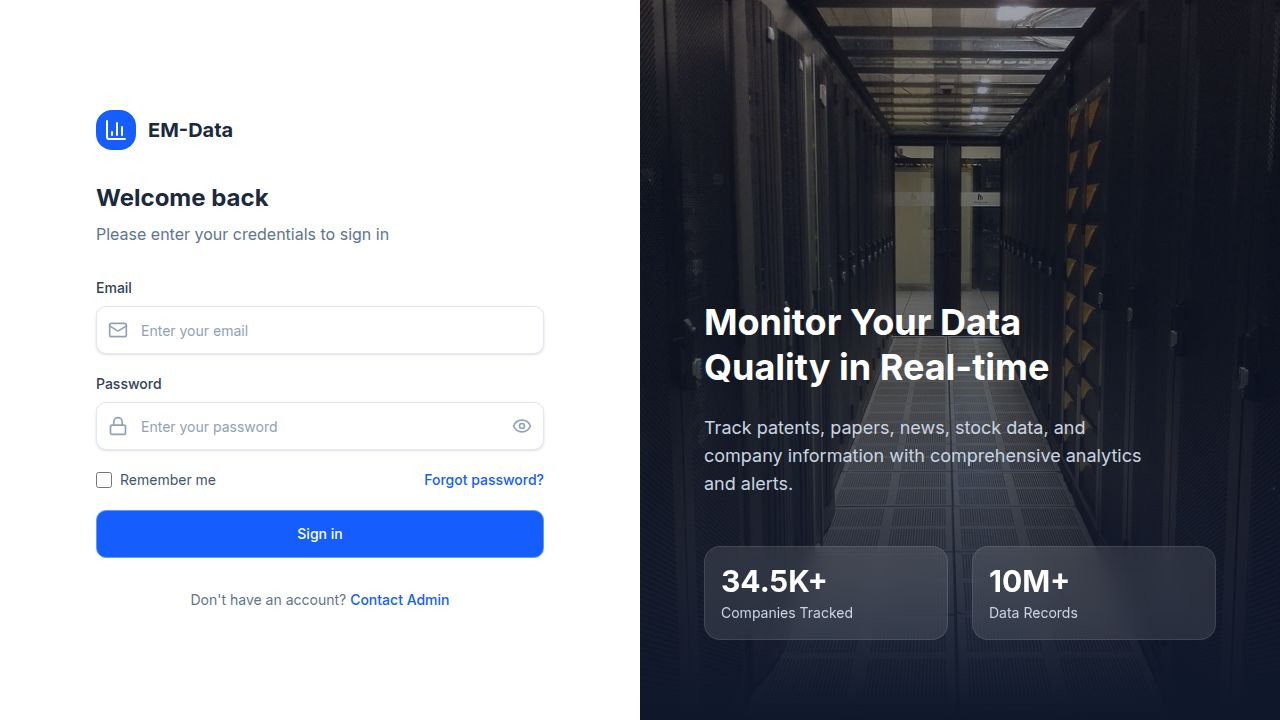
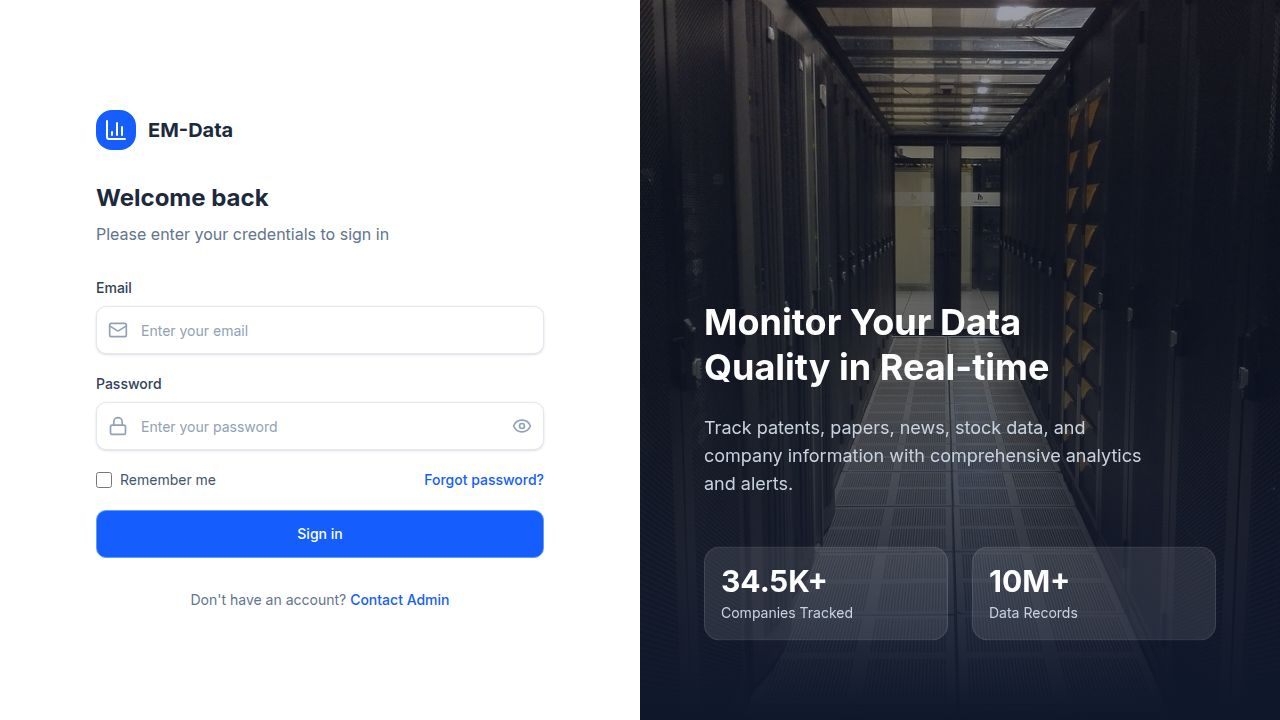
Update test item history to show only change type and results
Refactor TestDetail.tsx to remove detailed change history and display only action type, actor, date, and summary results for test item history.

Replit-Commit-Author: Agent
Replit-Commit-Session-Id: d2bd115d-fa95-4ba1-9fe1-994fda3d6723
Replit-Commit-Checkpoint-Type: full_checkpoint
Replit-Commit-Event-Id: 71c5cad7-1ea1-4dfe-9587-a508a47e2f06
Replit-Commit-Screenshot-Url: https://storage.googleapis.com/screenshot-production-us-central1/8e96d2a4-76c1-459b-b578-cf86d63140d3/d2bd115d-fa95-4ba1-9fe1-994fda3d6723/lMV1Tb4
Replit-Helium-Checkpoint-Created: true

diff --git a/client/src/pages/TestDetail.tsx b/client/src/pages/TestDetail.tsx
@@ -368,29 +368,38 @@ export default function TestDetail() {
     { 
       id: 1, 
       title: "QA 테스트 항목", 
-      action: "Replaced", 
+      action: "수정", 
       date: "2026-04-03 16:57", 
       actor: "Actor #2", 
-      role: "Member #2",
-      itemCount: 3,
-      changes: [
-        { id: 1, type: "ox", question: "회원가입 폼이 정상 표시되나요?", from: "O", to: "X", toStatus: "abnormal" },
-        { id: 2, type: "text", question: "발견된 문제를 입력해주세요.", from: "버튼이 안눌림", to: "가입하기 버튼 클릭 시 500 에러 발생함", toStatus: "normal" },
-        { id: 3, type: "multiple_choice", question: "테스트한 브라우저를 선택해주세요.", options: ["Chrome", "Firefox", "Safari", "Edge"], from: "미선택", to: "Chrome", toStatus: "normal" }
-      ]
+      results: {
+        normal: 12,
+        abnormal: 3,
+        resolved: 1
+      }
     },
     { 
       id: 2, 
       title: "QA 테스트 항목", 
-      action: "Updated", 
+      action: "시작", 
       date: "2026-04-03 14:20", 
       actor: "Actor #1", 
-      role: "Member #1",
-      itemCount: 2,
-      changes: [
-        { id: 1, type: "multiple_choice", question: "테스트 환경을 선택해주세요.", options: ["Local", "Dev", "Staging", "Prod"], from: "Dev", to: "Staging", fromStatus: "normal", toStatus: "abnormal" },
-        { id: 2, type: "ox", question: "API 응답이 200 OK 인가요?", from: "미선택", to: "O", toStatus: "normal" },
-      ]
+      results: {
+        normal: 0,
+        abnormal: 0,
+        resolved: 0
+      }
+    },
+    { 
+      id: 3, 
+      title: "QA 테스트 항목", 
+      action: "종료(등록)", 
+      date: "2026-04-04 10:15", 
+      actor: "Actor #3", 
+      results: {
+        normal: 15,
+        abnormal: 0,
+        resolved: 4
+      }
     }
   ];
   // Mock history data for schedule changes
@@ -1912,19 +1921,40 @@ export default function TestDetail() {
                     {itemHistory.map((historyGroup) => (
                       <div key={historyGroup.id} className="bg-white rounded-xl border border-slate-200 overflow-hidden shadow-sm">
                         {/* History Group Header */}
-                        <div className="p-5 border-b border-slate-100 flex items-start justify-between">
-                          <div className="flex items-start gap-4">
-                            <div className="w-10 h-10 rounded-full bg-blue-50 flex items-center justify-center flex-shrink-0 mt-1">
-                              <CheckCircle className="w-5 h-5 text-blue-500" />
+                        <div className="p-5 flex items-center justify-between">
+                          <div className="flex items-center gap-4">
+                            <div className={`w-10 h-10 rounded-full flex items-center justify-center flex-shrink-0 ${
+                              historyGroup.action === '시작' ? 'bg-blue-50 text-blue-500' :
+                              historyGroup.action === '종료(등록)' ? 'bg-emerald-50 text-emerald-500' :
+                              'bg-purple-50 text-purple-500'
+                            }`}>
+                              <CheckCircle className="w-5 h-5" />
                             </div>
                             <div>
                               <div className="flex items-center gap-3">
                                 <h4 className="text-base font-semibold text-slate-800">{historyGroup.title}</h4>
-                                <span className="px-2.5 py-0.5 rounded-full bg-blue-100 text-blue-700 text-xs font-medium">
+                                <span className={`px-2.5 py-0.5 rounded-full text-xs font-medium ${
+                                  historyGroup.action === '시작' ? 'bg-blue-100 text-blue-700' :
+                                  historyGroup.action === '종료(등록)' ? 'bg-emerald-100 text-emerald-700' :
+                                  'bg-purple-100 text-purple-700'
+                                }`}>
                                   {historyGroup.action}
                                 </span>
                               </div>
-                              <p className="text-sm text-slate-500 mt-1">{historyGroup.itemCount} item(s) snapshot</p>
+                              <div className="flex items-center gap-4 mt-2">
+                                <div className="flex items-center gap-1.5 text-sm text-emerald-600 bg-emerald-50 px-2 py-0.5 rounded-md border border-emerald-100">
+                                  <span className="font-medium">정상</span>
+                                  <span className="font-bold">{historyGroup.results.normal}건</span>
+                                </div>
+                                <div className="flex items-center gap-1.5 text-sm text-red-600 bg-red-50 px-2 py-0.5 rounded-md border border-red-100">
+                                  <span className="font-medium">비정상</span>
+                                  <span className="font-bold">{historyGroup.results.abnormal}건</span>
+                                </div>
+                                <div className="flex items-center gap-1.5 text-sm text-blue-600 bg-blue-50 px-2 py-0.5 rounded-md border border-blue-100">
+                                  <span className="font-medium">Resolved</span>
+                                  <span className="font-bold">{historyGroup.results.resolved}건</span>
+                                </div>
+                              </div>
                             </div>
                           </div>
                           <div className="text-right flex-shrink-0">
@@ -1934,77 +1964,6 @@ export default function TestDetail() {
                               <span className="font-medium">{historyGroup.actor}</span>
                             </div>
                           </div>
-                        </div>
-                        
-                        {/* History Group Items */}
-                        <div className="p-5 space-y-4">
-                          {historyGroup.changes.map((change, index) => (
-                            <div key={change.id} className="p-4 rounded-xl border border-slate-200 bg-white">
-                              <div className="flex gap-4">
-                                <div className="w-8 h-8 rounded-full bg-blue-50 flex items-center justify-center flex-shrink-0 text-blue-600 font-semibold text-sm">
-                                  {index + 1}
-                                </div>
-                                <div className="flex-1">
-                                  <div className="flex items-center gap-2 mb-2">
-                                    <CheckCircle className="w-4 h-4 text-slate-400" />
-                                    <span className="text-xs font-medium text-slate-500 bg-slate-100 px-2 py-0.5 rounded uppercase tracking-wider">
-                                      {change.type === 'ox' ? 'O/X' : change.type === 'text' ? 'Text' : 'Multiple Choice'}
-                                    </span>
-                                  </div>
-                                  <p className="text-sm font-medium text-slate-800 mb-4">{change.question}</p>
-                                  
-                                  {/* Render different UI based on question type */}
-                                  {change.type === 'text' ? (
-                                    <div className="mt-3 space-y-2">
-                                      {change.from && change.from !== '미선택' && (
-                                        <div className="p-3 bg-slate-50 border border-slate-200 rounded-lg text-sm text-slate-500 line-through opacity-70">
-                                          {change.from}
-                                        </div>
-                                      )}
-                                      {!change.from || change.from === '미선택' ? (
-                                        <div className="flex items-center gap-2 mb-2">
-                                          <span className="px-3 py-1 rounded-lg text-xs font-medium bg-slate-50 text-slate-500 border border-slate-200 border-dashed">미선택</span>
-                                          <span className="text-slate-400 font-medium px-1 text-xs">→</span>
-                                        </div>
-                                      ) : null}
-                                      <div className="p-3 bg-blue-50 border border-blue-200 rounded-lg text-sm text-blue-800 shadow-sm">
-                                        {change.to || "Text response field"}
-                                      </div>
-                                    </div>
-                                  ) : (
-                                    <div className="flex items-center flex-wrap gap-2 mt-3">
-                                      {change.from && change.from !== '미선택' && change.from !== '' ? (
-                                        <>
-                                          <span className={`px-3 py-1.5 rounded-lg text-sm font-medium ${
-                                            change.fromStatus === 'normal' || change.from === 'O' ? 'bg-emerald-50 text-emerald-700 border border-emerald-200' : 
-                                            change.fromStatus === 'abnormal' || change.from === 'X' ? 'bg-red-50 text-red-700 border border-red-200' : 
-                                            'bg-slate-50 text-slate-600 border border-slate-200'
-                                          }`}>
-                                            {change.from}
-                                          </span>
-                                          <span className="text-slate-400 font-medium px-1">→</span>
-                                        </>
-                                      ) : (
-                                        <>
-                                          <span className="px-3 py-1.5 rounded-lg text-sm font-medium bg-slate-50 text-slate-500 border border-slate-200 border-dashed">
-                                            미선택
-                                          </span>
-                                          <span className="text-slate-400 font-medium px-1">→</span>
-                                        </>
-                                      )}
-                                      <span className={`px-3 py-1.5 rounded-lg text-sm font-medium shadow-sm ${
-                                        change.toStatus === 'normal' || change.to === 'O' ? 'bg-emerald-50 text-emerald-700 border border-emerald-200' : 
-                                        change.toStatus === 'abnormal' || change.to === 'X' ? 'bg-red-50 text-red-700 border border-red-200' : 
-                                        'bg-blue-50 text-blue-700 border border-blue-200'
-                                      }`}>
-                                        {change.to}
-                                      </span>
-                                    </div>
-                                  )}
-                                </div>
-                              </div>
-                            </div>
-                          ))}
                         </div>
                       </div>
                     ))}